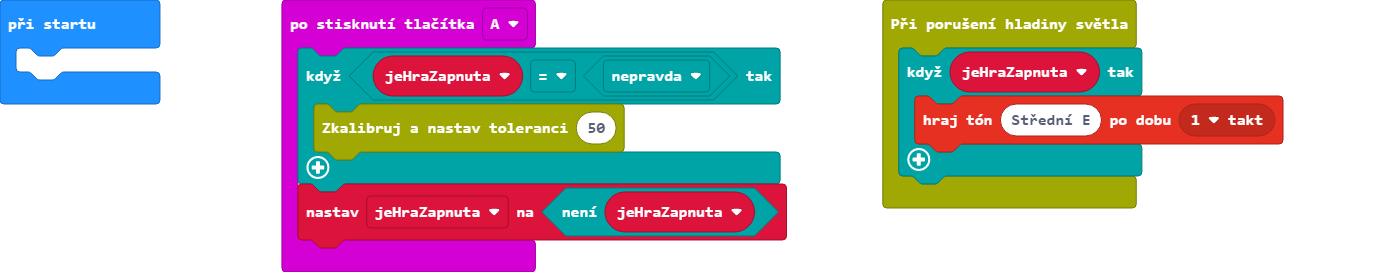
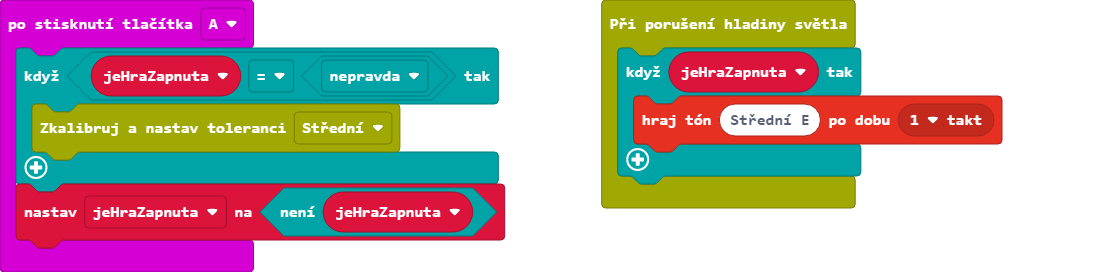
Aktualizovat pxt.json, main.blocks, main.ts, lightgate.ts

diff --git a/lightgate.ts b/lightgate.ts
@@ -1,6 +1,16 @@
+enum Deviation {
+    //% block="Malá"
+    Small = 10,
+    //% block="Střední"
+    Medium = 20,
+    //% block="Velká"
+    Large = 30,
+
+}
+
 //% weight=100 color=#a0a803 icon="\uf030" block="Světelná brána"
 namespace lightGate {
-    let toleration = 0
+    let toleration = Deviation.Medium
     let lightLevel = 0
     let methodLock = false
 
@@ -11,13 +21,13 @@ namespace lightGate {
     //% block="Zkalibruj a nastav toleranci %tol"
     //% tol.min=0 tol.max=255
 
-    export function calibrate(tol: number): void {
+    export function calibrate(dev: Deviation): void {
         let sumOfMeasurements = 0;
         for (let i = 0; i < 10; i++) {
             sumOfMeasurements += input.lightLevel()
         }
         lightLevel = Math.round(sumOfMeasurements / 10)
-        toleration = tol;
+        toleration = dev;
     }
 
     /**
@@ -47,4 +57,7 @@ namespace lightGate {
             }
         })
     }
+
+
+
 }

diff --git a/main.ts b/main.ts
@@ -1,7 +1,7 @@
 let jeHraZapnuta = false
 input.onButtonPressed(Button.A, function () {
     if (jeHraZapnuta == false) {
-        lightGate.calibrate(50)
+        lightGate.calibrate(Deviation.Medium)
     }
     jeHraZapnuta = !(jeHraZapnuta)
 })
